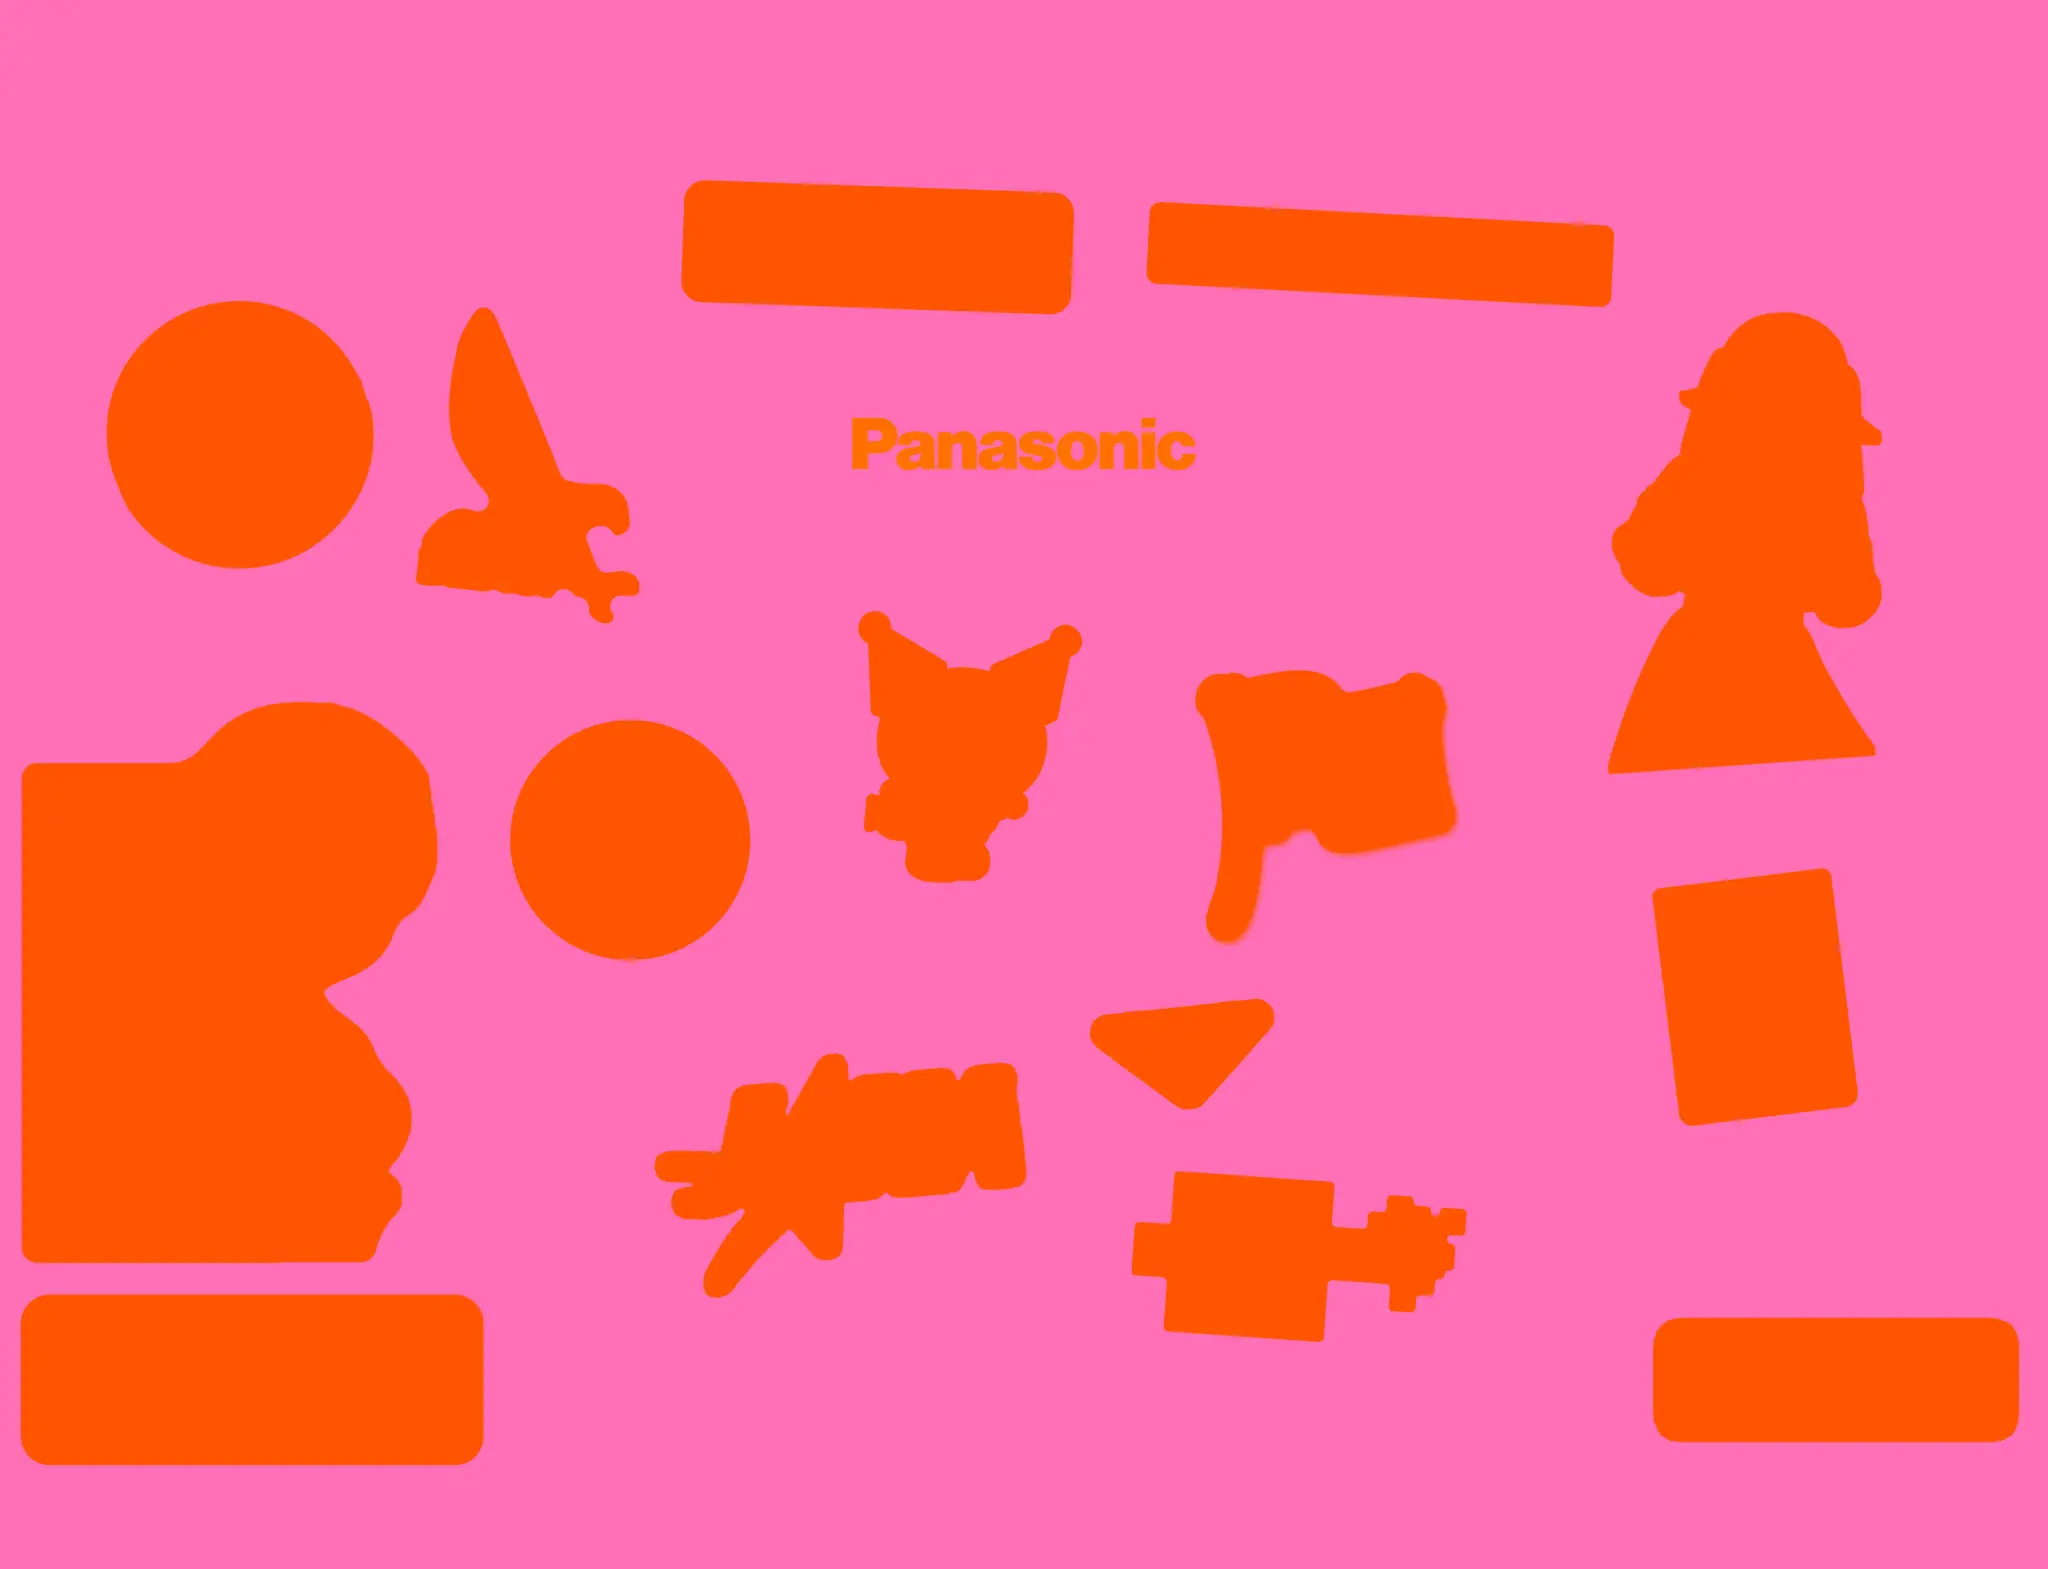
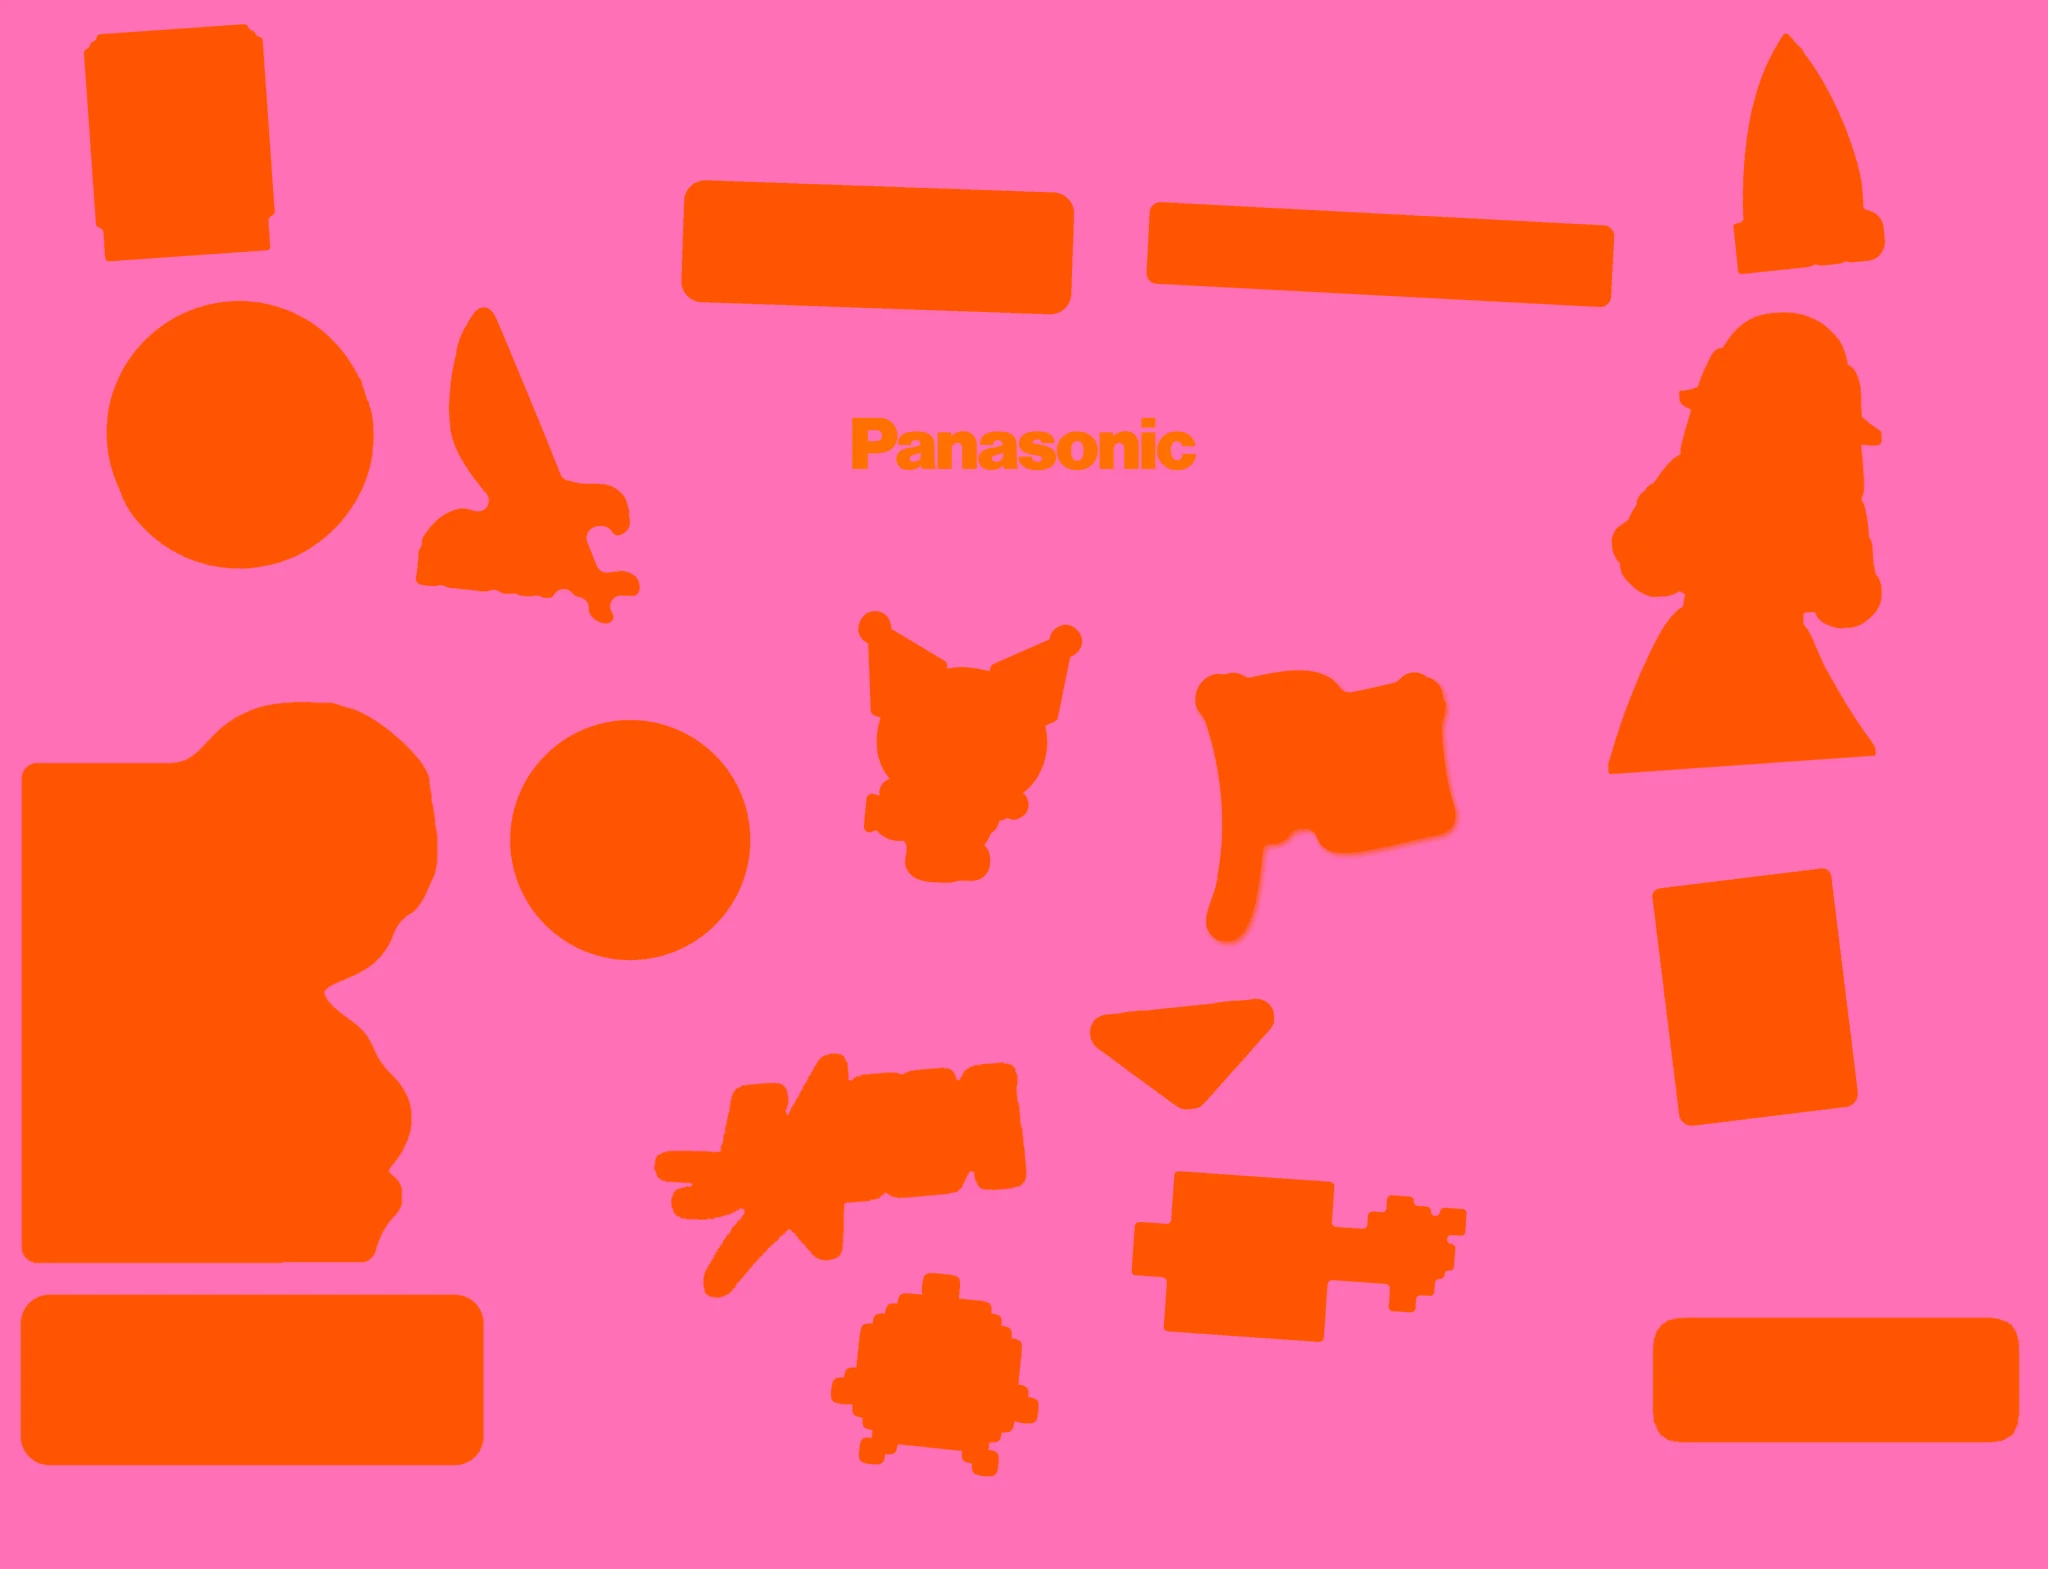
Put the DISCO, Happy Mac and Stardew stickers on the lid, and swap Discord for Twitter on the profile card
The three new stickers are cut by cut_stickers.py (the DISCO one blown up and sharpened
out of a sheet of five, the Mac nearest-neighbour scaled) and laid out in layout.py and
concept.js. The lid texture is rebuilt with them. The Stardew one stays clear of the silver
band along the hinge, where the lid's planar print shows through on the inside.

Changed region(s): [[0.0312, 0.0, 0.1562, 0.1874], [0.4062, 0.812, 0.5312, 0.9369], [0.8438, 0.0312, 0.9375, 0.1874]]

diff --git a/index.html b/index.html
@@ -124,7 +124,7 @@
       </div>
       <ul class="who__reach">
         <li><span>Mail</span><a href="mailto:hi@lucya.sh">hi@lucya.sh</a></li>
-        <li><span>Discord</span><b>@lucya.systems</b></li>
+        <li><span>Twitter</span><a href="https://x.com/lucya_systems">@lucya_systems</a></li>
       </ul>
     </div>
     <div class="who__text rise">
@@ -442,7 +442,7 @@
   <p class="foot__legal"><a href="legal.html">Impressum · Datenschutz</a> <span><a href="https://status.lucya.systems">Status</a></span></p>
 </footer>
 
-<script type="module" src="concept/concept.js?v=20261103-seal"></script>
+<script type="module" src="concept/concept.js?v=20261110-stickers2"></script>
 <script type="module" src="intro/loader.js?v=20261101-lock"></script>
 </body>
 </html>

diff --git a/concept/concept.js b/concept/concept.js
@@ -34,6 +34,7 @@ const STICKERS = [
   ['pride', 176, 108, 38, -8], ['potato', 234, 133, 24, 7], ['jaxa', 112, 156, 50, 5], ['clawd', 173, 168, 44, -4],
   ['proxmox', 184, 34, 62, -3], ['delacy', 72, 62, 30, -6],
   ['inter-astra', 117, 33, 52, -2], ['uwu', 158, 141, 25, 6],
+  ['mac', 24, 19, 24, 4], ['disco', 240, 20, 20, 6], ['sprout', 125, 183, 28, -6],
 ];
 const deck = document.getElementById('deck');
 const logo = document.createElement('div');

diff --git a/tools/laptop/cut_stickers.py b/tools/laptop/cut_stickers.py
@@ -28,7 +28,34 @@ SOURCES = [
     ("Delacy.webp", "delacy", "contour", 16),
     ("uwu.jpg", "uwu", 7, 0),
     ("logo-wordmark.png", "inter-astra", "label", 0),
+    ("discovery-stickers.webp", "disco", "contour", 16),
+    ("pixel-sprout.jpg", "sprout", 7, 0),
+    ("happy-mac.webp", "mac", "contour", 16),
 ]
+
+
+def disco_art(img):
+    """The DISCO sticker out of a sheet of five, which is flat navy on white and only 200 px
+    wide: it is blown up and its edges pulled back to crisp, so it still prints sharp, and the
+    sheet's own hairline cut path (too pale to be ink) drops out on the way."""
+    sheet = img.convert("RGB").crop((585, 665, 780, 975))
+    lum = np.asarray(sheet.convert("L"), dtype=np.float32)
+    navy = np.asarray(sheet, dtype=np.float32)[lum < 90].mean(axis=0)
+    cover = np.clip((255 - lum) / (255 - lum[lum < 90].mean()), 0, 1)
+    cover = Image.fromarray(cover, "F").resize((sheet.width * 4, sheet.height * 4), Image.BICUBIC)
+    t = np.clip((np.asarray(cover) - 0.35) / 0.3, 0, 1)
+    cover = t * t * (3 - 2 * t)
+    rgb = 255 - cover[..., None] * (255 - navy)
+    return Image.fromarray(rgb.astype(np.uint8), "RGB")
+
+
+def pixels(img, factor=8):
+    """Pixel art stays square when it grows: nearest, never smoothed."""
+    return img.resize((img.width * factor, img.height * factor), Image.NEAREST)
+
+
+# source images that need preparing before they are cut, by output name
+PREPARE = {"disco": disco_art, "mac": pixels}
 
 
 def spread(mask, radius):
@@ -162,6 +189,8 @@ for name, out, tolerance, edge in SOURCES:
     if not (src / name).exists():
         continue
     img = Image.open(src / name)
+    if out in PREPARE:
+        img = PREPARE[out](img)
     if tolerance == "ring":
         result = cut_ring(img)
     elif tolerance == "tag":

diff --git a/tools/laptop/layout.py b/tools/laptop/layout.py
@@ -64,6 +64,9 @@ STICKERS = [
     ("delacy", 72, 62, 30, -6),
     ("inter-astra", 117, 33, 52, -2),
     ("uwu", 158, 141, 25, 6),
+    ("mac", 24, 19, 24, 4),
+    ("disco", 240, 20, 20, 6),
+    ("sprout", 125, 183, 28, -6),   # clear of the silver band along the hinge (y > 199.5), which shows the print on the inside
 ]
 LOGO_CLEAR = (108, 50, 165, 68)
 
